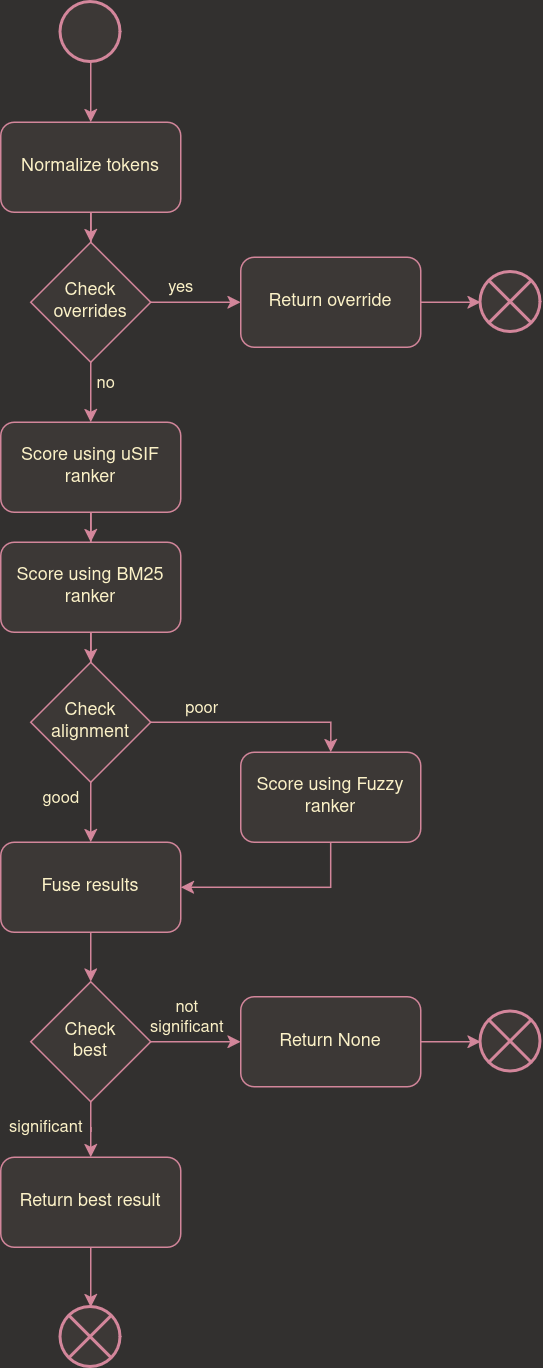
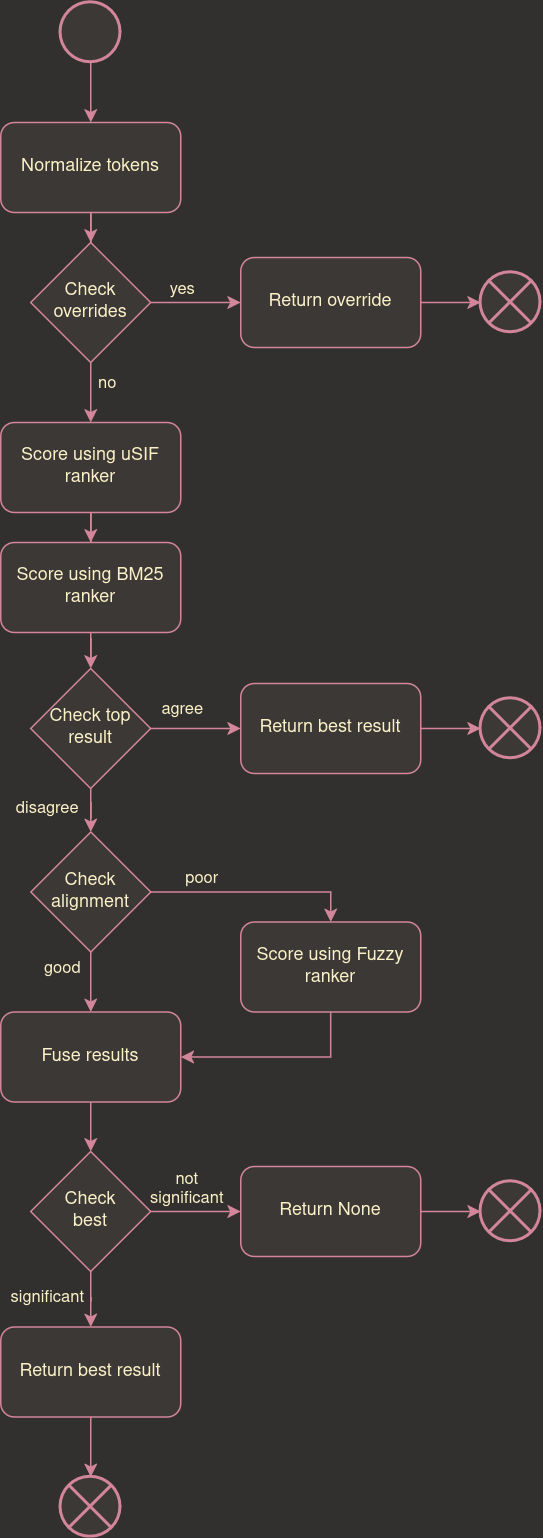
Docs: More foundation food doc updates

diff --git a/ingredient_parser/en/foundationfoods/_bm25.py b/ingredient_parser/en/foundationfoods/_bm25.py
@@ -17,7 +17,7 @@ class BM25:
 
     References
     ----------
-    .. [1] Trotman, A., Jia, X.F., Crane, M.: Towards an eﬃcient and eﬀective search
+    .. [1] Trotman, A., Jia, X.F., Crane, M.: Towards an efficient and effective search
            engine. In: SIGIR 2012 Workshop on Open Source Information Retrieval,
            pp. 40–47, Portland (2012)
 

diff --git a/docs/source/explanation/foundation.rst b/docs/source/explanation/foundation.rst
@@ -103,6 +103,7 @@ The ingredient name tokens are normalized by taking the following steps:
 * Splitting tokens containing hyphens into separate tokens.
 * Discarding tokens that are numbers, white space or only a single character.
 * Stemming the remaining tokens.
+* Discarding tokens that are not in the embeddings model.
 
 In addition, any ambiguous adjectives that occur at the start of the ingredient name are removed.
 Ambiguous adjectives are those that have multiple meaning which can cause confusion in the subsequent scoring steps.
@@ -207,8 +208,19 @@ Since this is not always the case, we combine it with the :abbr:`uSIF (Unsupervi
   The difference between the :abbr:`uSIF (Unsupervised Smooth Inverse Frequency)` can be seen in the example here.
   BM25 gives the first two result equal scores because neither **bell** nor **sweet** were specified, where the :abbr:`uSIF (Unsupervised Smooth Inverse Frequency)` ranker ranked ``Peppers, bell, red, raw`` higher because the embeddings showed a higher similarity with the ingredient name.
 
+5. Check for agreement of best result
+~~~~~~~~~~~~~~~~~~~~~~~~~~~~~~~~~~~~~
 
-5. Check :abbr:`uSIF (Unsupervised Smooth Inverse Frequency)` and BM25 alignment
+To avoid the further computation of the score fusion (and potentially another ranking technique), the top result from the BM25 and :abbr:`uSIF (Unsupervised Smooth Inverse Frequency)` rankers are checked to see if they are the same.
+If they are the same, then that top result is returned and the remaining processing is skipped.
+
+.. tip::
+
+    When we check the agreement of the top results, we need to consider that each ranker may have more than result with the same score as the top score.
+    This is particularly likely for the BM25 ranker, as seen above.
+
+
+6. Check :abbr:`uSIF (Unsupervised Smooth Inverse Frequency)` and BM25 alignment
 ~~~~~~~~~~~~~~~~~~~~~~~~~~~~~~~~~~~~~~~~~~~~~~~~~~~~~~~~~~~~~~~~~~~~~~~~~~~~~~~~
 
 The fuzzy document distance technique described below is another semantic ranking technique, but it has the downside of being significantly more computationally expensive and therefore slow than the :abbr:`uSIF (Unsupervised Smooth Inverse Frequency)` and BM25 techniques.
@@ -221,7 +233,7 @@ The alignment of the :abbr:`uSIF (Unsupervised Smooth Inverse Frequency)` and BM
 This calculates a score between 1 (identical rankings) and 0 (disjoint rankings).
 A score below the set threshold triggers the use of the fuzzy document distance ranker.
 
-6. Score using Fuzzy ranker
+7. Score using Fuzzy ranker
 ~~~~~~~~~~~~~~~~~~~~~~~~~~~
 
 The fuzzy document distance metric is described in [#Morales]_ and is also used rank the :abbr:`FDC (Food Data Central)` entries in order of relevance.
@@ -248,7 +260,7 @@ The results using this approach are easier to reason about than the result from 
 
     Each score for the fuzzy document distance is a value between 0 and 1, where a smaller number means more similar.
 
-7. Fuse results
+8. Fuse results
 ~~~~~~~~~~~~~~~
 
 To obtain the best matching :abbr:`FDC (Food Data Central)` entry, the rankings from the two (or three) ranking techniques are fused together using Distribution-Based Score Fusion [#Mazzeschi]_.
@@ -286,7 +298,7 @@ This helps avoid the really poorly matching :abbr:`FDC (Food Data Central)` entr
     In the example, because the :abbr:`uSIF (Unsupervised Smooth Inverse Frequency)` and BM25 rankers had good alignment, the fuzzy document distance ranker was not used (and therefore has a confidence of 0).
 
 
-8. Check if the best result is significant
+9. Check if the best result is significant
 ~~~~~~~~~~~~~~~~~~~~~~~~~~~~~~~~~~~~~~~~~~
 
 blah blah blah
@@ -294,7 +306,7 @@ blah blah blah
 References
 ^^^^^^^^^^
 
-.. [#Robertson] S.\ E. Robertson, S. Walker, S. Jones, M. Hancock-Beaulieu, and M. Gatford, ‘Okapi at TREC-3’, in Text Retrieval Conference, 1994.
+.. [#Robertson] Trotman, A., Jia, X.F., Crane, M.: Towards an efficient and effective search engine. In: SIGIR 2012 Workshop on Open Source Information Retrieval, pp. 40–47, Portland (2012)
 
 .. [#Ethayarajh] Kawin Ethayarajh. 2018. Unsupervised Random Walk Sentence Embeddings: A Strong but Simple Baseline. In Proceedings of the Third Workshop on Representation Learning for NLP, pages 91–100, Melbourne, Australia. Association for Computational Linguistics. https://aclanthology.org/W18-3012/
 
